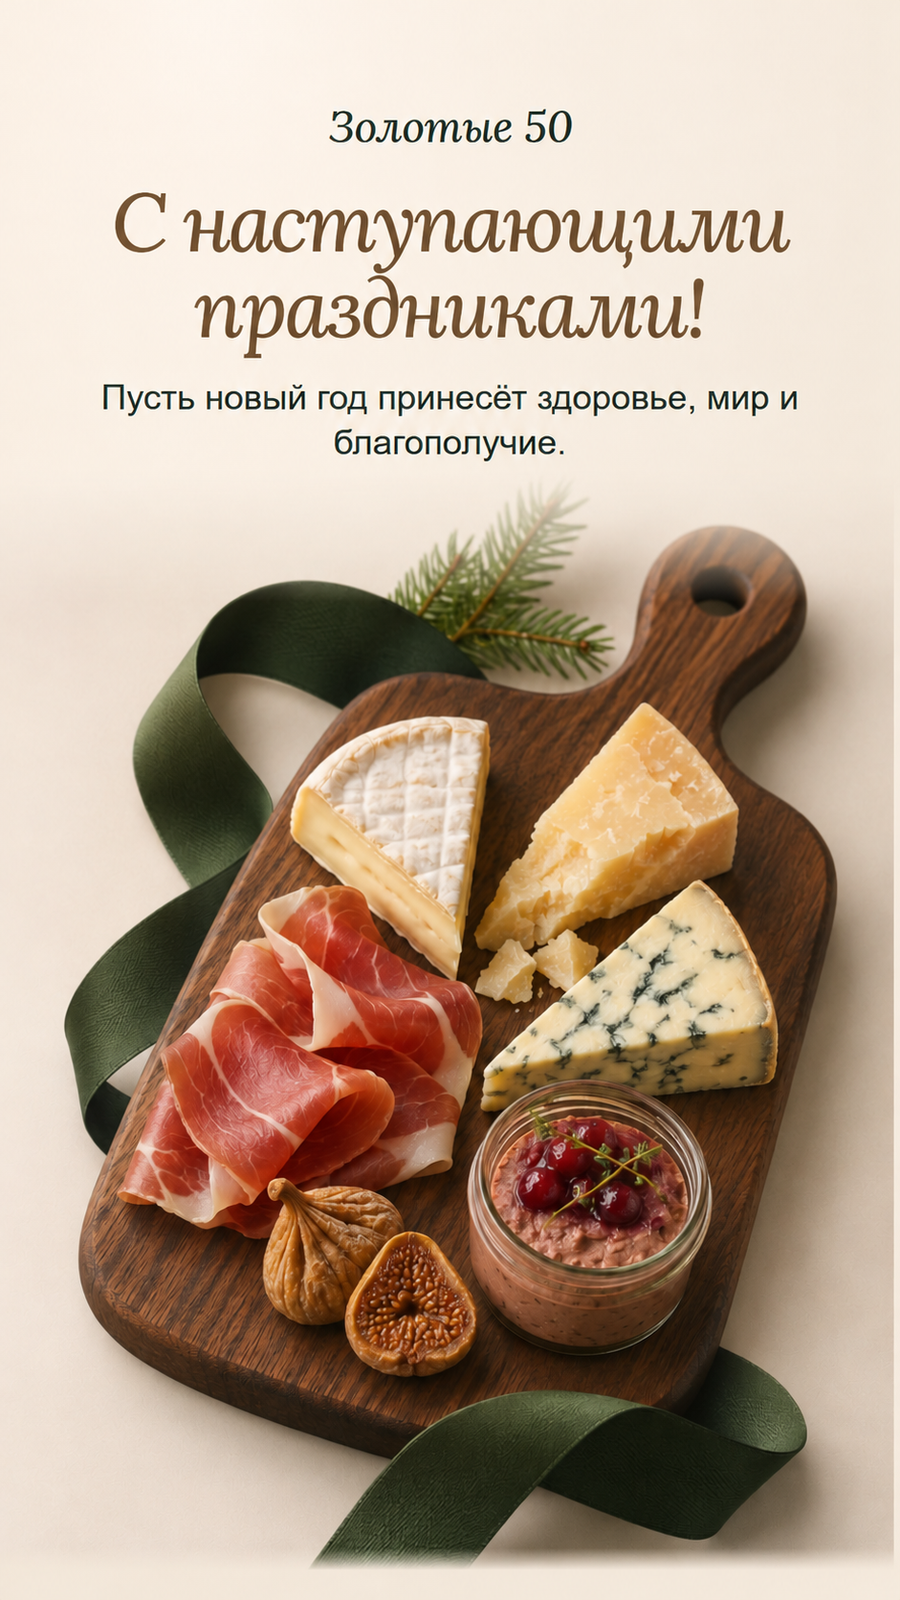
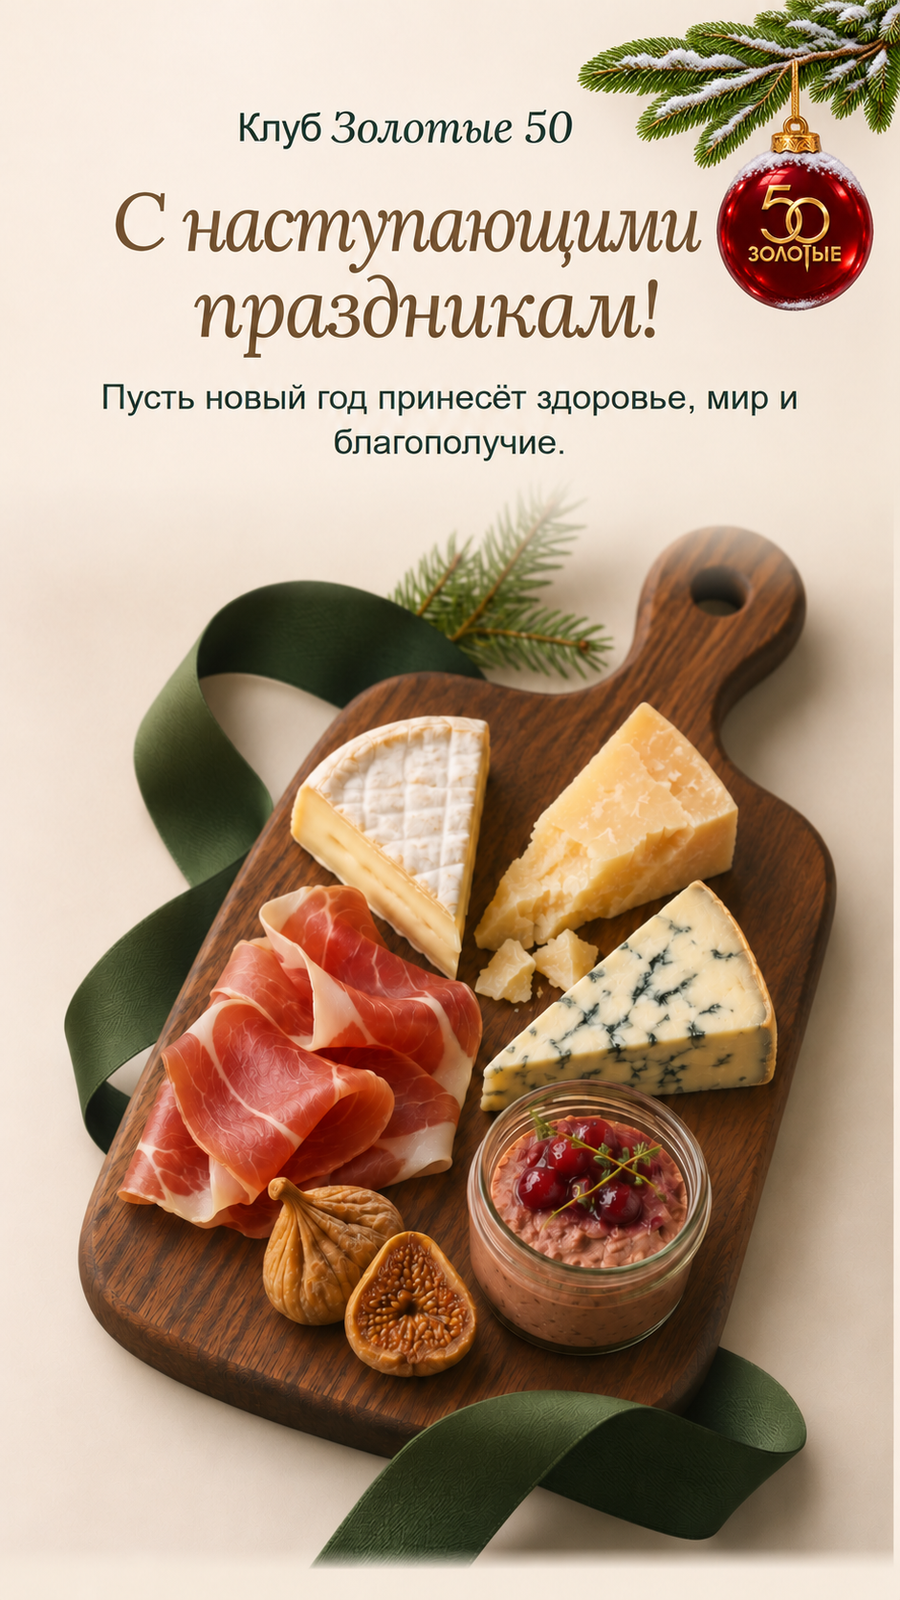
Embed Golden 50 ornament in both wallpapers and add gift link

diff --git a/assets/50-gold.html b/assets/50-gold.html
@@ -281,6 +281,13 @@ body.postcard-finale{background:#F5F2ED}
 .postcard-finale #scene{width:100%;min-height:100svh;display:grid;place-items:center}
 .postcard-finale .final-postcard{display:block;width:100%;height:100svh;max-width:none;margin:0;border-radius:0;box-shadow:none;object-fit:cover;object-position:center}
 .postcard-finale .final-postcard-actions{position:fixed;z-index:2;left:max(16px,env(safe-area-inset-left));bottom:max(16px,env(safe-area-inset-bottom));margin:0}
+.final-postcard-actions .gift-order{display:inline-flex;align-items:center;justify-content:center;min-height:48px;padding:12px 22px;border-radius:14.4px;background:#1E2A20;color:#F5F2ED;font:italic 400 18px/24px KollektivLora,Georgia,serif;text-decoration:none}
+.final-postcard-actions .gift-order:hover{background:#293B2C}
+.final-postcard-actions .gift-order:focus-visible{outline:3px solid #6B4E2E;outline-offset:3px}
+@media(max-width:480px){
+  .postcard-finale .final-postcard-actions{right:max(16px,env(safe-area-inset-right));justify-content:flex-start;gap:6px}
+  .final-postcard-actions button.primary,.final-postcard-actions .gift-order{font-size:clamp(12px,4vw,16px);padding:10px clamp(8px,3vw,14px);white-space:nowrap}
+}
 @media(max-aspect-ratio:1/1){.postcard-finale .final-postcard{object-fit:contain}}
 @media print{.postcard-finale .final-postcard{height:auto;object-fit:contain}.postcard-finale .final-postcard-actions{display:none}}
 
@@ -295,11 +302,10 @@ body.postcard-finale{background:#F5F2ED}
 .products-stage .product-bauble,.products-stage .product-bauble:hover{background:transparent}
 
 .gold50-corner-ornament{position:fixed;display:block;z-index:3;top:max(4px,env(safe-area-inset-top));right:max(5px,env(safe-area-inset-right));width:clamp(72px,11vw,156px);height:auto;pointer-events:none;user-select:none}
-body.postcard-finale .gold50-corner-ornament{width:clamp(85px,10vw,148px)}
+body.postcard-finale .gold50-corner-ornament{display:none}
 .winter-cover .gold50-sender-plain{color:#1E2A20;font-family:"Century Gothic","AppleGothic","URW Gothic L",Arial,sans-serif;font-style:normal;font-weight:400;letter-spacing:-.035em}
 @media(max-width:600px){
   .winter-cover .opening--center .gold50-sender{font-size:clamp(24px,8vw,34px)}
-  body.postcard-finale .gold50-corner-ornament{width:clamp(52px,15vw,75px)}
 }
 @media(max-width:600px){.gold50-corner-ornament{width:clamp(46px,15vw,72px)}}
 @media print{.gold50-corner-ornament{display:none}}
@@ -1093,7 +1099,7 @@ function preloadNextScreen(){
 function finale() {
   const title=element('h2','С наступающими праздниками!','final-postcard-title');
   const card=element('img','','final-postcard');
-  card.alt='Золотые 50. С наступающими праздниками! Пусть новый год принесёт здоровье, мир и благополучие. На открытке — гастрономическая доска.';
+  card.alt='Клуб Золотые 50. С наступающими праздниками! Пусть новый год принесёт здоровье, мир и благополучие. На открытке — гастрономическая доска и красный шарик с золотым логотипом клуба.';
   const picture=element('picture','','final-postcard-picture');
   const mobile=element('source');
   mobile.media=portraitMedia;
@@ -1108,7 +1114,9 @@ function finale() {
     link.download=portrait?'Финальная открытка Золотые 50 — для телефона.png':'Финальная открытка Золотые 50 — для рабочего стола.png';
     link.click();
   },'primary');
-  actions.append(download);
+  const order=element('a','Заказать подарок','gift-order');
+  order.href='/corporate-gifts';
+  actions.append(download,order);
   scene.append(title,picture,actions);
 }
 function render() {
